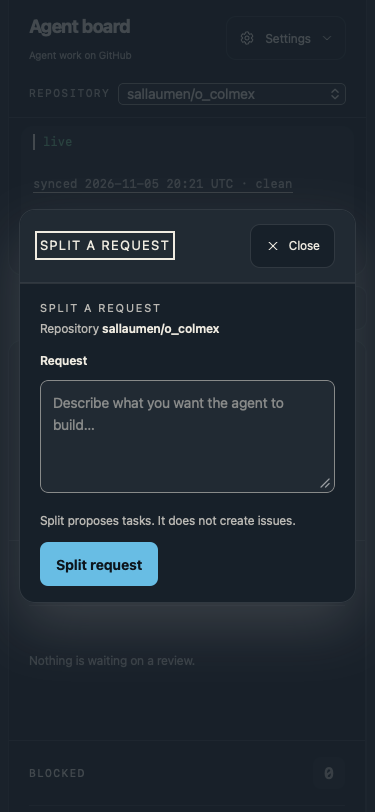
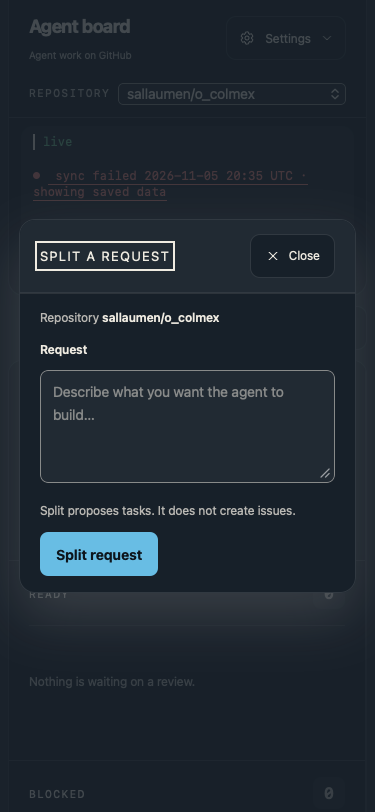
Remove duplicate intake heading

diff --git a/docs/ui-audit/2026-11-05/voice-intake/README.md b/docs/ui-audit/2026-11-05/voice-intake/README.md
@@ -16,7 +16,9 @@ WebKit accessibility snapshot: the native dialog retained its name and close
 button; the request became a labeled multiline textbox; the selected
 repository and the consequence of Split are visible. At 375px, typing kept
 focus in the textbox, the page width stayed 375px, Escape closed the dialog
-in-place, and the console reported zero errors. The voice-draft banner and
+in-place, and the console reported zero errors. The dev-only live-reload frame
+logged one TLS/clear-channel warning during the second capture; it did not
+affect the dialog. The voice-draft banner and
 the full double-Space flow await the preceding voice-panel PR for browser
 verification; LiveView tests cover preparation, editing, refresh preservation,
 and a stale repository rejection in this PR.
